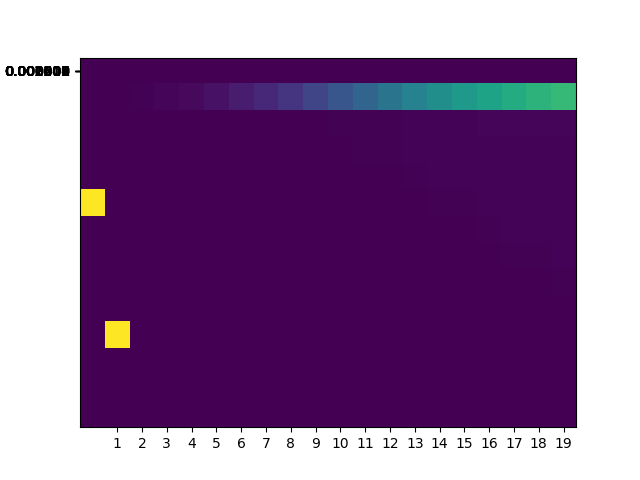
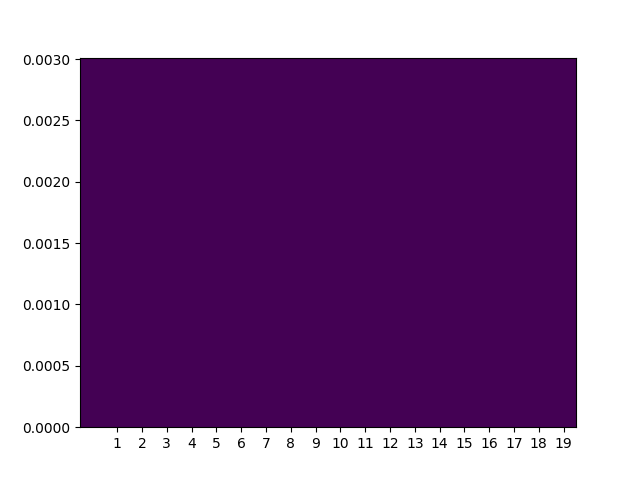
test

diff --git a/MCTDCRcode/MCNP-MATRIX/matrice.py b/MCTDCRcode/MCNP-MATRIX/matrice.py
@@ -97,9 +97,11 @@ plt.savefig('matrice/matrice.png')
 '''
 #m = matrice_p[0:15][:]
 #print(m)
+yl = e[15]
 plt.imshow(matrice_p[1:15][:],aspect='auto')
 plt.xticks(np.arange(1,20,1))
-plt.yticks(e[0:15])
+plt.ylim(0,yl)
+#plt.yticks(e[0:15])
 plt.savefig('matrice/matr.png')
 
 
